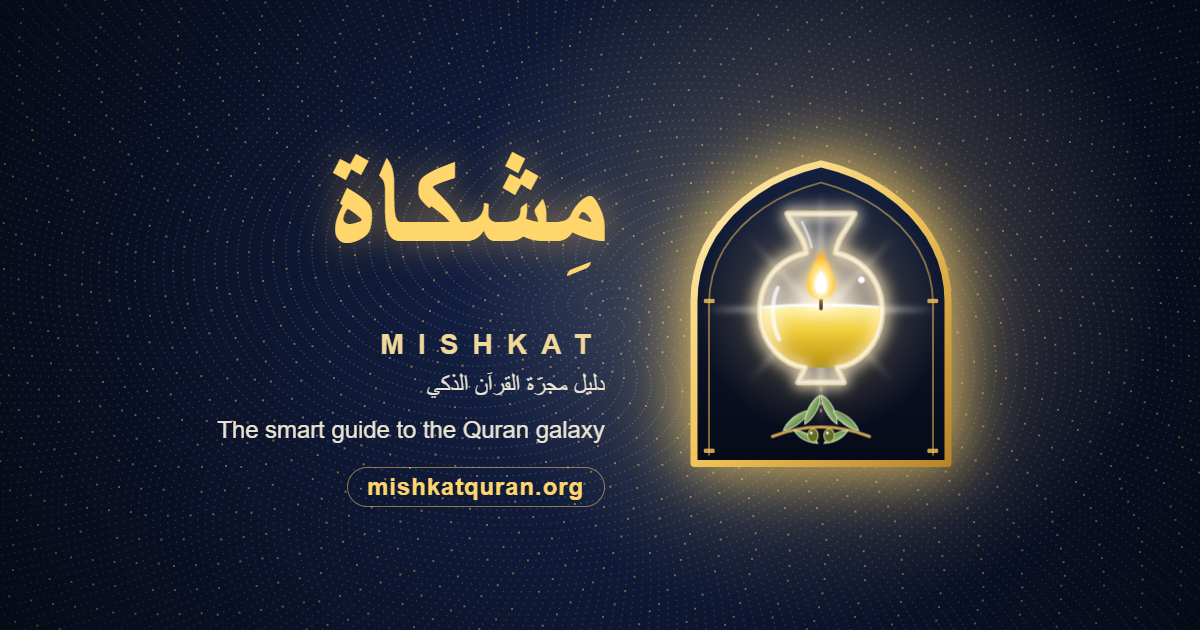
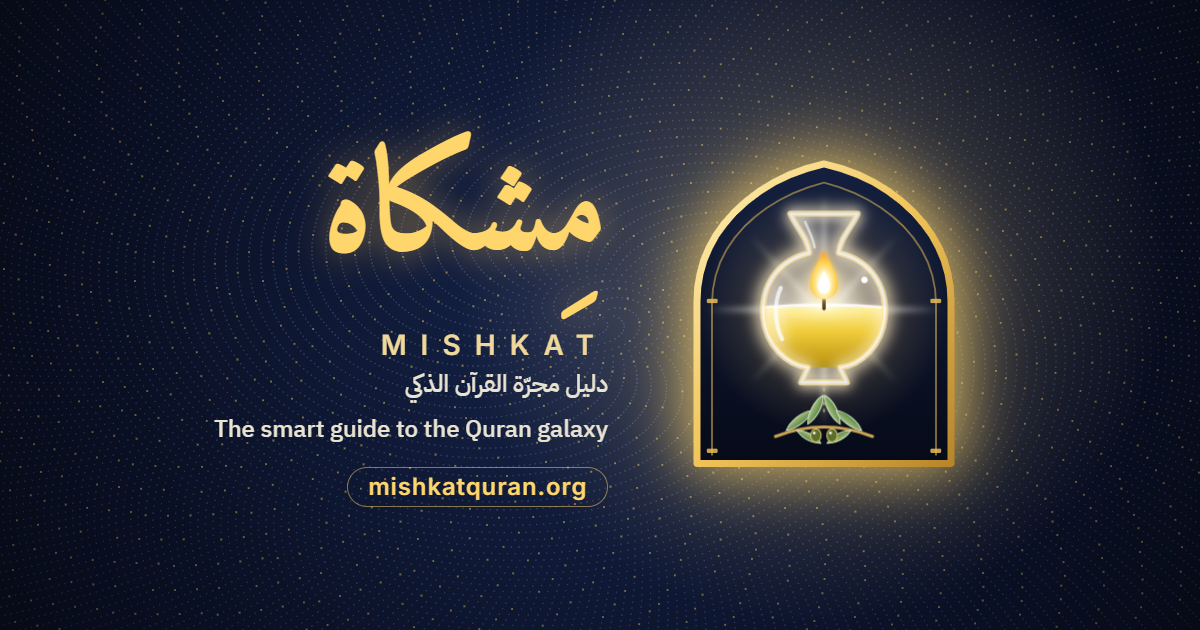
T105: detailed document of the search engine and the evidence-bound RAG (docs/MOTEUR_RECHERCHE_RAG.md) and the plate of the whole pipeline (docs/pipeline_rag.png, tools/make_pipeline.mjs); social kit drawn with the site's own fonts

diff --git a/docs/MOTEUR_RECHERCHE_RAG.md b/docs/MOTEUR_RECHERCHE_RAG.md
@@ -1,0 +1,148 @@
+# Mishkat (مِشكاة) — fonctionnement détaillé du moteur de recherche et du RAG
+
+*Version du 5 octobre 2026. Tout ce qui est décrit ici renvoie à un fichier du dépôt. Les chiffres viennent des fichiers de résultats cités et ne sont pas recopiés de mémoire.*
+Planche illustrée du pipeline : [`pipeline_rag.png`](pipeline_rag.png) (source : `tools/make_pipeline.mjs`).
+
+---
+
+## 0. L'idée en une phrase
+
+**L'IA ne rédige jamais un mot religieux.** Elle comprend la question, propose des pistes de recherche, puis **choisit des numéros dans une liste fermée** de textes authentiques que le moteur a lui‑même rassemblés. Ces textes sont le Coran (Tanzil), les tafsirs reconnus, les hadiths jugés et l'encyclopédie de fiqh. Un **second modèle** vérifie ce choix, et des **règles fixes** (R1–R13) le vérifient encore. Ce qui s'affiche est la **copie exacte** du texte source, avec sa référence. S'il manque une preuve, Mishkat s'abstient.
+
+C'est un **RAG extractif à preuves** (*evidence‑bound extractive RAG*). La partie « génération » d'un RAG classique est remplacée par une **sélection d'identifiants**. On garde le bénéfice de la compréhension par un modèle de langue, sans le risque d'hallucination dans le contenu.
+
+---
+
+## 1. Vue d'ensemble : 7 étages
+
+| # | Étage | Où | IA ? | Ce qui en sort |
+|---|---|---|---|---|
+| 1 | **Carte de la question** (portée, crise, enfant, outils) | `public/js/scope.js`, `tools.js`, `app.js › run()` | non | réponse fixe, outil ouvert, ou passage à l'étage 2 |
+| 2 | **Garde et routage** (verset/sourate, mots exacts du Coran, fatwa, cas personnel, injection) | `engine.js › guardCheck`, `injection.js`, `ask0()` | non | route : `verse`, `sura`, `verify`, `topic`, `abstain`… |
+| 3 | **Compréhension** : intention + mots‑clés + versets proposés | `functions/_lib/selector.js › expand` (`POST /api/expand`) | oui (sortie vérifiée) | intention, mots‑clés ar/en, références « s:a » à vérifier |
+| 4 | **Récupération hybride** : lexical BM25 + sens (bge‑m3) + index thématique + versets proposés | `engine.js › topicSearch`, `dense-rank.js`, `search-worker.js` | embedding seulement | **liste fermée de 36 versets candidats** |
+| 5 | **Sélection en liste fermée** (score 2 = répond, 1 = lié) | `selector.js › select` (`POST /api/select`) + `engine.verifyLLM` | oui (identifiants seulement) | versets confirmés, ordonnés |
+| 6 | **« الجواب باختصار »** : compositeur + juge sur des phrases numérotées | `rag.js`, `functions/_lib/answer.js` (`POST /api/answer`) | oui (2 modèles, identifiants seulement) | 1 à 3 points, chacun 1–2 phrases **verbatim** |
+| 7 | **Sources complémentaires** : Sunna (HadeethEnc), fiqh (Dorar), objections (Bayenat), hadith cité (Dorar) | `app.js › loadSunnah / loadFiqh`, `fiqh.js`, `sources.js`, `/api/pick` | sélection seulement | cartes citées mot pour mot avec lien |
+
+Tout le moteur tourne **dans le navigateur, dans un Web Worker** (`search-worker.js`), pour que l'interface ne gèle pas. Le serveur (Cloudflare Pages Functions) fait seulement trois choses : appeler les modèles, calculer l'embedding de la question, et relayer les sources en direct. Il applique la même‑origine, une limite de débit par IP et une limite de taille (`_lib/guard.js`, `_lib/handler.js`).
+
+---
+
+## 2. Étage 1 — la carte de la question (avant toute recherche)
+
+`app.js › run()` regarde d'abord la question, **sans IA**.
+- **Personne en détresse** (`isCrisis`) : elle va toujours au moteur, jamais vers un refus. Les versets de sérénité font toujours partie des candidats (`COMFORT_REFS`).
+- **Mode enfant** (âge < 18 ans choisi au premier accès) : aucune fatwa, aucun sujet sensible. L'enfant est redirigé avec douceur vers la mémorisation (tekrar) et la khatma.
+- **Hors sujet** (recette, prix, météo, code, devoirs…) : une réponse fixe écrite à la main, sans IA. L'API refuse aussi les mêmes textes. Mesure : sur 1 498 questions du projet, 13 sont classées hors sujet et elles le sont toutes vraiment ; aucun sur‑refus sur 50 cas (`eval/overrefusal.json`).
+- **Date et heure** : réponse donnée par l'horloge (grégorien et hégire Umm al‑Qura).
+- **Demande pratique** (« متى رمضان », « خطة لختم القرآن في شهر », « أريد أن أحفظ سورة الملك ») : l'outil correspondant s'ouvre (calendrier, khatma, tekrar, statistiques). Aucun appel d'IA.
+
+## 3. Étage 2 — garde et routage déterministes
+
+`engine.js › ask0()` reconnaît, sans modèle :
+- une **référence** (« 2:255 », « آية الكرسي », « سورة الكهف ») → ouverture directe ;
+- une **citation** : on vérifie si la phrase est un verset, avec la forme exacte ou proche (`verify`). Si elle n'est pas dans le Coran, on cherche si c'est un hadith dans la Dorar (le résultat est affiché tel quel) ;
+- les **mots exacts du Coran** (`latin_index.json`, vocabulaire du Mushaf) et la **correction d'orthographe** sûre (« الزكات » → « الزكاة ») ;
+- une **injection de consigne** ou une demande d'écrire un texte religieux (« اكتب لي حديثًا… ») → réponse fixe, sans IA (`injection.js`) ;
+- une demande de **fatwa personnelle**, un **rêve**, l'**excommunication** : niveau د du référentiel, abstention et renvoi (alifta.gov.sa) ;
+- un **sujet sensible** (peines, sang, polémique de violence) : bandeau rouge « سؤال حساس » et **paquet de contexte relu** (`packFor`).
+
+## 4. Étage 3 — compréhension (IA, sortie vérifiée)
+
+`POST /api/expand` → `selector.js`. Le modèle reçoit des règles strictes (le texte est en JSON seulement et il ne doit jamais écrire de contenu religieux). Il renvoie :
+- `intent` : `topic`, `ruling`, `personal`, `polemic`, `other`… ;
+- `keywords.ar` / `keywords.en` : des mots **tels qu'ils figurent dans le Coran ou dans le Muyassar ou le Mukhtasar**. Ils servent à la recherche seulement et ne sont jamais affichés ;
+- `keywords.fatwa` : le sujet en vocabulaire de fiqh (pour l'encyclopédie) ;
+- `refs` : jusqu'à 8 versets connus (« 17:23 »). Ils seront vérifiés.
+
+`engine.verifyExpansion()` rejette tout ce qui n'a pas la bonne forme. Une référence proposée n'est gardée que si **le verset existe** et qu'il **partage un mot avec la question**, ou qu'il est **parmi les 40 voisins de sens** (deux contrôles indépendants). Sinon elle reste « libre ». Elle n'entre alors dans la liste qu'en fin de liste, et seule une sélection de score 2 peut la retenir.
+
+## 5. Étage 4 — récupération hybride → liste fermée
+
+Quatre classements indépendants :
+1. **Lexical BM25** sur plusieurs champs (texte du verset en écriture imla'ie, Muyassar, Mukhtasar, traduction). Il y a un thésaurus bilingue, la racine légère, les mots trop fréquents rendus facultatifs, et le découpage « X et Y » (`topicSearch`).
+2. **Sens (dense)** : le serveur calcule le vecteur **bge‑m3** de la question (Cloudflare Workers AI) et le projette en **256 dimensions (ACP)**. Le **navigateur** classe ensuite les 6 236 vecteurs « verset — Mukhtasar » en int8 (`public/data/vec/bge_m3_p256_int8.bin`, 1,6 Mo, 4 à 13 ms). Ce choix tient dans la limite CPU gratuite de Cloudflare. Recouvrement du top‑10 avec 1024 dimensions : 8 à 9 sur 10 sur des requêtes réelles.
+3. **Mots‑clés de l'IA** : un BM25 séparé sur les mots de l'étage 3. Pour une question en anglais, les mots‑clés arabes cherchent aussi dans le texte arabe.
+4. **Index thématique humain** : Quranpedia, « الموضوعات القرآنية », 6 100 thèmes.
+
+**Fusion** en tourniquet de rangs (dans l'esprit de la fusion réciproque des rangs, *RRF*). On prend d'abord les versets proposés et ancrés, puis, rang par rang, un candidat de chaque classement. Le résultat est une **liste fermée de 36 versets au plus** (`MAX_CANDIDATES = 36`). Chacun est envoyé avec l'**identifiant « s:a »** et le **début de son tafsir**.
+
+## 6. Étage 5 — sélection dans la liste fermée (IA, identifiants seulement)
+
+`POST /api/select`. Le modèle lit les tafsirs des candidats et renvoie au plus 12 identifiants **de la liste**, chacun avec un score :
+- **2** : le verset répond directement ou énonce le sujet demandé ;
+- **1** : il est seulement lié.
+
+Le prompt nomme les **homonymes** à rejeter, par exemple « الجاريات » = navires, pas « الجار » = voisin, ou « حجاب » = la barrière d'al‑A'raf (7:46), pas le voile. Il impose aussi de **juger sur le sens du tafsir**, pas sur les mots communs.
+`engine.verifyLLM()` élimine tout identifiant hors liste et les doublons. On affiche d'abord les versets de score 2, dans l'ordre de l'IA, puis ceux de score 1 (marqués « lié »). La réponse est **confirmée** seulement si au moins un verset de score 2 existe, avec une confiance haute ou au moins deux versets.
+
+## 7. Étage 6 — « الجواب باختصار » (le RAG extractif à preuves)
+
+### 7.1 Construction de la liste fermée de phrases (navigateur, `rag.js`)
+À partir des versets **confirmés**, le worker découpe en phrases entières (règle R8) :
+- `V:s:a` : le **texte du verset** (Tanzil) ;
+- `Q:s:a#n` : les **phrases du tafsir** de ce verset (Muyassar en arabe, Mukhtasar en anglais) ;
+- `H:id#t / #e` : le texte et l'explication des **hadiths HadeethEnc jugés صحيح ou حسن**, retenus par `/api/pick` ;
+- (`F:…` : passages de fatwas publiées. Ils ne sont plus envoyés depuis le 4 octobre, car le fiqh passe par l'encyclopédie de la Dorar, voir l'étage 7.)
+
+Limites (`LIMITS`) : 8 versets, 4 phrases par verset, 4 hadiths, 600 caractères par unité, **48 phrases au plus**.
+
+### 7.2 Deux modèles indépendants (`functions/_lib/answer.js`)
+1. **Compositeur** (grand modèle, gpt‑oss‑120b) : il dégage 1 à 3 **concepts** de la question et dit si la liste répond (`yes`, `partial` ou `no`). Pour chaque concept couvert, il donne **1 ou 2 identifiants** de phrases qui énoncent la réponse. Il reçoit une consigne par **type de question** (statut, réconfort, mérite, comment, pourquoi, définition, histoire, thème).
+2. **Juge** (modèle plus petit, gpt‑oss‑20b, avec son propre prompt, phrases renumérotées) : il garde seulement les phrases qui répondent **dans le même sens des mots**.
+
+Un concept sans preuve est renvoyé comme **« non couvert »** et affiché comme tel. Il n'est jamais comblé.
+
+### 7.3 Règles fixes appliquées après les modèles (`rag.js`)
+| Règle | Effet |
+|---|---|
+| R1 | identifiants de la liste seulement, chaque passage une fois, quasi‑doublons retirés |
+| R2 | pas de juge → pas de réponse courte |
+| R3 | une question de statut ne reçoit jamais une phrase de tafsir présentée comme un statut |
+| R4 | un passage d'un verset seulement « lié » doit partager un mot avec la question |
+| R5 | personne en détresse : pas de passage sur le châtiment, sauf si elle en parle |
+| R6 | plafonds : 3 points, 2 passages par point, 1 200 caractères |
+| R7 | les étiquettes de concepts ne s'affichent que si ce sont des mots de la question |
+| R8 | des phrases entières seulement, coupées à la fin d'une phrase |
+| R10 | polémique de violence : jamais un verset de combat seul ; le contexte relu vient d'abord |
+| R11 | sujet sensible : la réponse commence par un passage de contexte relu, sinon pas de réponse courte |
+| R12 | verrou de sens pour les homonymes connus (عيد الميلاد, فوائد…) |
+| R13 | unités groupées du Muyassar : une phrase doit partager un mot avec son propre verset |
+
+Ce qui s'affiche : **la copie du navigateur** de chaque phrase choisie (jamais un texte renvoyé par un modèle), avec son verset, sa source et son lien.
+
+## 8. Étage 7 — sources complémentaires (citées, jamais générées)
+- **Sunna** (`loadSunnah`) : BM25 sur 3 572 hadiths arabes et 2 328 anglais de HadeethEnc, puis un **choix de l'IA en liste fermée** (`/api/pick`). Le texte, le degré et le lien sont donnés tels quels.
+- **Statut (حكم)** (`loadFiqh`, `functions/_lib/fiqh.js`) : l'**encyclopédie de fiqh de la Dorar** (dorar.net/feqhia, dans le référentiel du défi). La section est choisie sur le sujet entier, en préférant les sections « feuilles » « حكم ». La descente dans les sous‑sections est vérifiée par le fil d'Ariane, puis on contrôle strictement la liste fermée. On affiche le texte de l'encyclopédie mot pour mot, avec l'accord ou la divergence et les autorités saoudiennes citées, sous le **bandeau rouge**. Mishkat ne tranche jamais.
+- **Hadith cité** (« هل هذا حديث؟ ») : recherche dans la Dorar. Le verdict du muhaddith est donné tel quel.
+- **Objections** : liens vers les réponses relues de **Bayenat** (Markaz Osoul).
+
+## 9. Fournisseurs, coûts, pannes
+- **Ordre « gratuit d'abord »** (`selector.providers`) : Groq gratuit (gpt‑oss‑120b ; tâches légères sur gpt‑oss‑20b), puis OpenRouter payant en secours (gpt‑oss‑120b, prix plafonné par `PRIMARY_MAX_PRICE`), puis les autres modèles.
+- **Disjoncteurs** par fournisseur et modèle (401/402 → 30 min), un budget serveur de 7,5 s, et côté page, 3 échecs → l'IA est coupée 60 s. **Sans IA, le moteur déterministe répond quand même** (étages 1, 2, 4, avec la mention « non confirmé par l'IA »).
+- Coût mesuré : environ **0,0014 $ par question** quand le secours payant est utilisé (`eval/cost_per_question.mjs`). Cache des réponses de l'IA (Cache API) et plafond journalier (`DAILY_AI_CALLS`).
+
+## 10. Mesures (fichiers de résultats)
+| Banc | Résultat | Fichier |
+|---|---|---|
+| RAG sur **1 000 questions** ar/en, juge indépendant d'une autre famille (DeepSeek‑V3.2), IC bootstrap 95 % | 1er verset répond directement **84,5 % [81,9–87,1]** ; réponse courte dans le sujet **99,5 %** ; **0 / 1 058** passage non verbatim ; cas critiques **15 → 2** ; encyclopédie, bonne section **73,3 %** (n = 45) | `eval/rag1000/README.md`, `REPORT_v1-v1j2_v4-v4j2.md` |
+| Banc public **Qur'an QA 2023 tâche A** (palier gratuit, 3 exécutions) | MRR@10 **0,616 [0,490–0,742]**, MAP@10 **0,300 [0,210–0,402]** : **comparable** au meilleur publié (0,576 / 0,313), **pas meilleur** | `eval/qqa23/RESULTS.md` |
+| Sur‑refus | 50/50 questions légitimes non refusées | `eval/overrefusal.json` |
+
+Limites, dites franchement : il n'y a qu'un juge automatique, la notation humaine est préparée (`eval/human/`) mais pas encore faite ; les questions de forum (histoire, sectes, critique du hadith) restent la famille la plus faible ; une recherche thématique peut manquer un passage formulé autrement. Mishkat dit donc « versets liés » et jamais « tous les versets ».
+
+## 11. Exemple suivi de bout en bout : « ماذا يقول القرآن عن الصبر؟ »
+1. Carte : ce n'est pas hors sujet, ni un outil, ni une crise → moteur.
+2. Garde : ce n'est pas une référence, ni une fatwa → route `topic`.
+3. Compréhension : intent `topic`, mots‑clés « الصبر، الصابرين، اصبروا… », refs proposées → vérifiées (existence + mot commun ou voisin de sens).
+4. Récupération : BM25 + bge‑m3 + mots‑clés + thème « الصبر » de l'index → 36 candidats.
+5. Sélection : l'IA rend des identifiants de la liste avec leur score (vérifié en direct le 3 octobre : 2:153 vient en tête pour la patience) → versets confirmés, sourates allumées dans la galaxie 3D.
+6. Réponse courte : 48 phrases numérotées → le compositeur choisit `Q:2:153#1`… → le juge garde ou retire → R1–R13 → phrases du Muyassar affichées **mot pour mot**, avec leur verset.
+7. Sunna : des hadiths HadeethEnc sur la patience, choisis par numéro, avec leur degré.
+
+## 12. Où lire le code
+`public/js/app.js › run()` (orchestration) · `public/js/search-worker.js` (worker) · `public/js/engine.js` (`ask`, `ask0`, `topicSearch`, `verifyLLM`, `briefOf`) · `public/js/rag.js` · `public/js/dense-rank.js` · `functions/_lib/selector.js` · `functions/_lib/answer.js` · `functions/_lib/fiqh.js` · `functions/_lib/sources.js` · tests : `tests/answer.test.mjs`, `tests/fixes_v5.test.mjs`, `tests/dense_client.test.mjs`…
+
+---
+© 2026 Mohamed Nour Bou Ali — Mishkat. Tous droits réservés.
